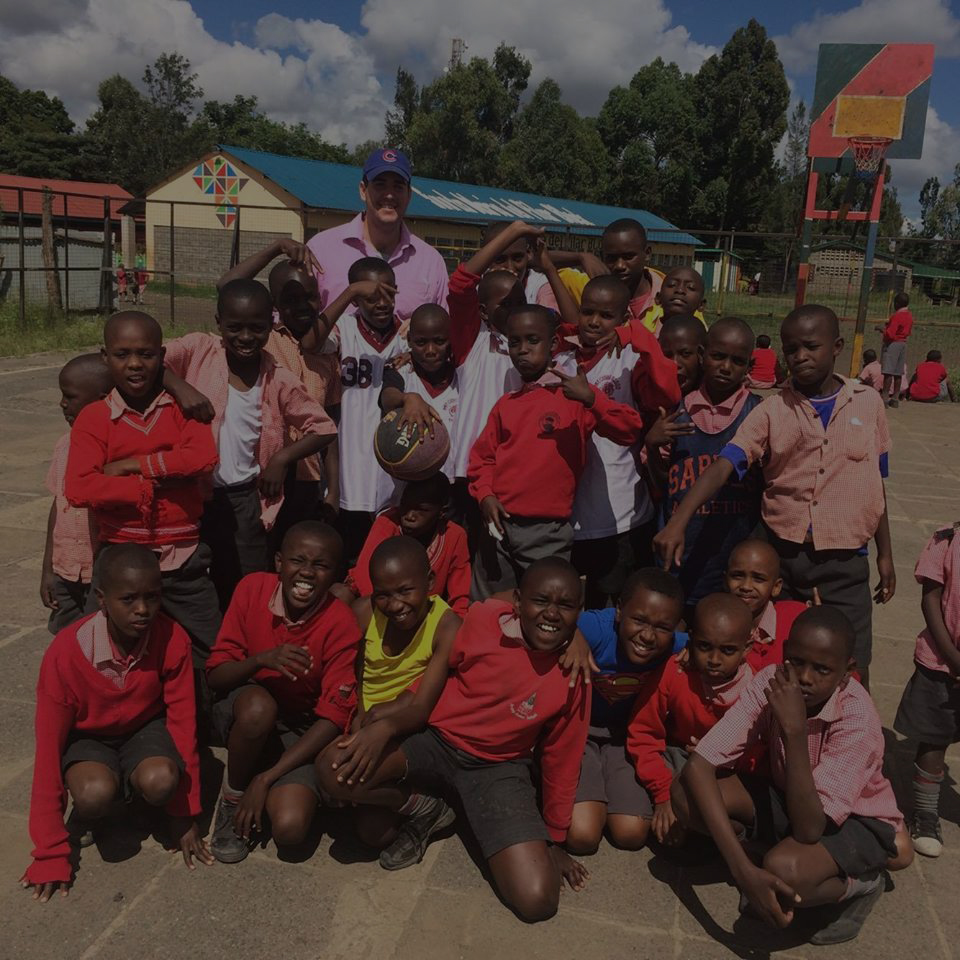
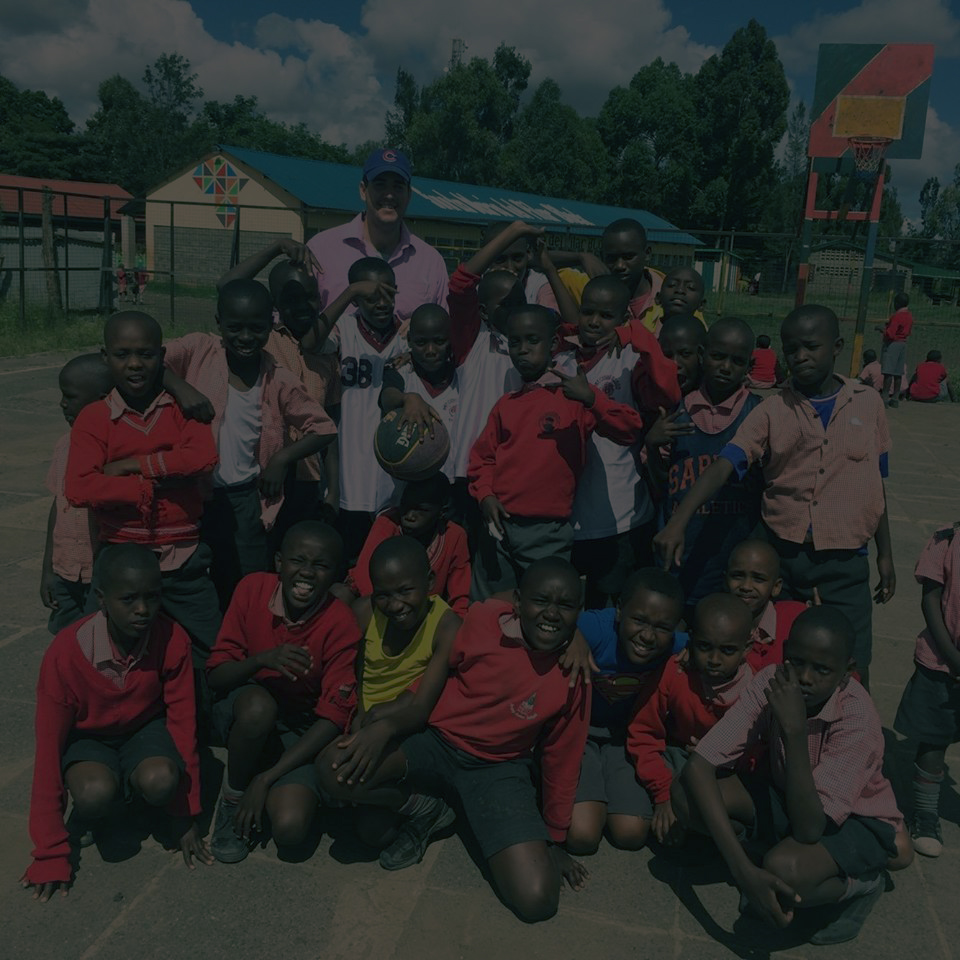
still styling

diff --git a/Contribute.html b/Contribute.html
@@ -28,40 +28,60 @@
 	<div class="container-fluid contributeBackground">
 		<img src="styles/images/donatepagepic.jpg" alt="">
 	</div>
-	<div class="container contributeContainer">
-				<div class="row text-center">
-				<div class="col-sm-6">
-					<button>Donate Now</button>
-				</div>
-				<div class="col-sm-6">
-					<button>Make a recurring donation</button>
-				</div>	
+
+	<div class="container" id="contributeContainer">
+		<div class="col-sm-12">
+			<div class="row text-center">
+				<h1>HELP OUR CAUSE</h1>
 			</div>
-		
+		</div>
+		<div class="row text-center">
+			<div class="col-sm-12">
+				<p>Your contributions enable us to meet our goals and to create educational opportunities for some of the neediest children on the globe. Whether large or small, funds received will go directly to where they are needed most and will have a real impact on the children that we serve.</p>	
+			</div>
+		</div>
+		<div class="row text-center">
+			<div class="col-sm-6">
+				<button class="btn-primary donate">Donate Now</button>
+			</div>
+			<div class="col-sm-6">
+				<button class="btn-primary donate">Make a recurring donation</button>
+			</div>	
+		</div>
 	</div>
 
-
-<!-- 		<div class="container-fluid contactContainer">
-			<div class="row contactRowInfo text-center">
-				<div class="col-sm-4">
-					<p>donations@thefleischerfoundation.org</p>
-				</div>
-				<div class="col-sm-4 text-center">
-					<div class="row">
-						<div class="col-md-6">
-							<p>subscribe to our mailing list</p>
-						</div>	
-						<div class="form-group subscriptionInput col-md-6">
-							<input type="email" class="form-control" placeholder="Enter email">
-						</div>
-					</div>	
-				</div>
-				<div class="col-sm-4">
-					<button>Donate Now</button>
-				</div>
+	<div class="container-fluid contributeFooter">
+		<div class="row text-center">
+			<div class="col-sm-12">
+				<h3>Tax-Exempt Status</h3>
 			</div>
-		</div> -->
+			<div class="col-sm-12">
+				<p>The Fleischer Foundation is a 501(c)(3) nonprofit organization under the United States of America Internal Revenue Service (Federal Tax ID 81-4218767). As such, all donations are tax deductible via IRC Section 170.</p>
+			</div>
+		</div>
+	</div>
 
+<!-- 	<div class="container-fluid contactContainer">
+		<div class="row contactRowInfo text-center">
+			<div class="col-sm-4">
+				<p>donations@thefleischerfoundation.org</p>
+			</div>
+			<div class="col-sm-4 text-center">
+				<div class="row">
+					<div class="col-md-6">
+						<p>subscribe to our mailing list</p>
+					</div>	
+					<div class="form-group subscriptionInput col-md-6">
+						<input type="email" class="form-control" placeholder="Enter email">
+					</div>
+				</div>	
+			</div>
+			<div class="col-sm-4">
+				<button>Donate Now</button>
+			</div>
+		</div>
+	</div>
+ -->
 
 
 	<script src="js/bootstrap.min.js"></script>

diff --git a/styles/styles.css b/styles/styles.css
@@ -104,6 +104,9 @@ body .studentProfilesDiv {
 body .contactContainer {
   background-color: #424747;
   color: white;
+  position: absolute;
+  margin-bottom: 0px;
+  width: 100%;
 }
 body .contactContainer .contactRowInfo {
   margin-top: 2%;
@@ -135,6 +138,11 @@ body .contributeBackground {
   height: 200%;
 }
 body .contributeBackground img {
+  -webkit-filter: blur(5px);
+  -moz-filter: blur(5px);
+  -o-filter: blur(5px);
+  -ms-filter: blur(5px);
+  filter: blur(2px);
   position: absolute;
   top: 0;
   left: 0;
@@ -144,9 +152,40 @@ body .contributeBackground img {
   min-width: 50%;
   min-height: 50%;
 }
-body .contributeContainer {
-  margin-top: 10%;
+body #contributeContainer {
   height: 500px;
+  margin-top: 11%;
+  margin-bottom: 5%;
+  color: #EDF1F1;
+}
+body #contributeContainer h1 {
+  margin-bottom: 5%;
+  font-size: 50px;
+}
+body #contributeContainer p {
+  margin: 2% 13% 8% 13%;
+  font-size: 22px;
+}
+body #contributeContainer .donate {
+  width: 250px;
+  height: 100px;
+  padding: 20px 20px;
+  background-color: #d22f25;
+  border: none;
+  border-radius: 3px;
+  font-size: 20px;
+  box-shadow: 1px 1px 4px rgba(59, 54, 54, 0.84);
+}
+body #contributeContainer .donate:hover {
+  background-color: #F93D33;
+  transform: scale(1.025);
+  box-shadow: 0px 1px 3px 0px rgba(0, 0, 0, 0.26), 0px 3px 10px 0px rgba(0, 0, 0, 0.15);
+  transition: all .3s;
+}
+body .contributeFooter {
+  background-color: #EDF1F1;
+  position: absolute;
+  margin-bottom: 0px;
 }
 body .footerContainer {
   background-color: #424747;

diff --git a/styles/styles.less b/styles/styles.less
@@ -4,6 +4,7 @@
 @translucentGreen: rgba(126, 143, 124, 0.82);
 @lightBlue: #F4F5F5;
 @gray: #424747;
+@lightGray: #EDF1F1;
 
 
 
@@ -142,6 +143,9 @@ body {
 	.contactContainer {
 		background-color: @gray;
 		color: white;
+		position:absolute;
+		margin-bottom: 0px;
+		width:100%;
 		.contactRowInfo {
 			margin-top: 2%;
 			margin-bottom: 2%;
@@ -175,6 +179,11 @@ body {
 		width: 200%; 
 		height: 200%;
 		img {
+			-webkit-filter: blur(5px);
+			-moz-filter: blur(5px);
+			-o-filter: blur(5px);
+			-ms-filter: blur(5px);
+			filter: blur(2px);
 			position: absolute; 
 			top: 0; 
 			left: 0; 
@@ -186,9 +195,41 @@ body {
 		}
 		
 	}
-	.contributeContainer {
-		margin-top: 10%;
+	#contributeContainer {
 		height: 500px;
+		margin-top: 11%;
+		margin-bottom: 5%;
+		color: @lightGray;
+		h1 {
+			margin-bottom: 5%;
+			font-size: 50px;
+		}
+		p {
+			margin: 2% 13% 8% 13%;
+			font-size: 22px;
+		}
+		.donate {
+			width: 250px;
+			height: 100px;
+			padding:20px 20px;
+			background-color: @red;
+			border: none;
+		    border-radius: 3px;
+		    font-size: 20px;
+		    box-shadow: 1px 1px 4px rgba(59, 54, 54, 0.84);
+		}
+		.donate:hover {
+			background-color: #F93D33;
+			transform: scale(1.025);
+  			box-shadow: 0px 1px 3px 0px rgba(0, 0, 0, 0.26), 0px 3px 10px 0px rgba(0, 0, 0, 0.15);
+  			transition: all .3s;
+		}
+	}
+
+	.contributeFooter {
+		background-color: @lightGray;
+		position: absolute;
+		margin-bottom: 0px;
 	}
 
 

diff --git a/js/app.js b/js/app.js
@@ -32,3 +32,4 @@ $('a.less', minimized_elements).click(function(event){
     event.preventDefault();
     $(this).parent().hide().prev().show().prev().show();    
 });
+
